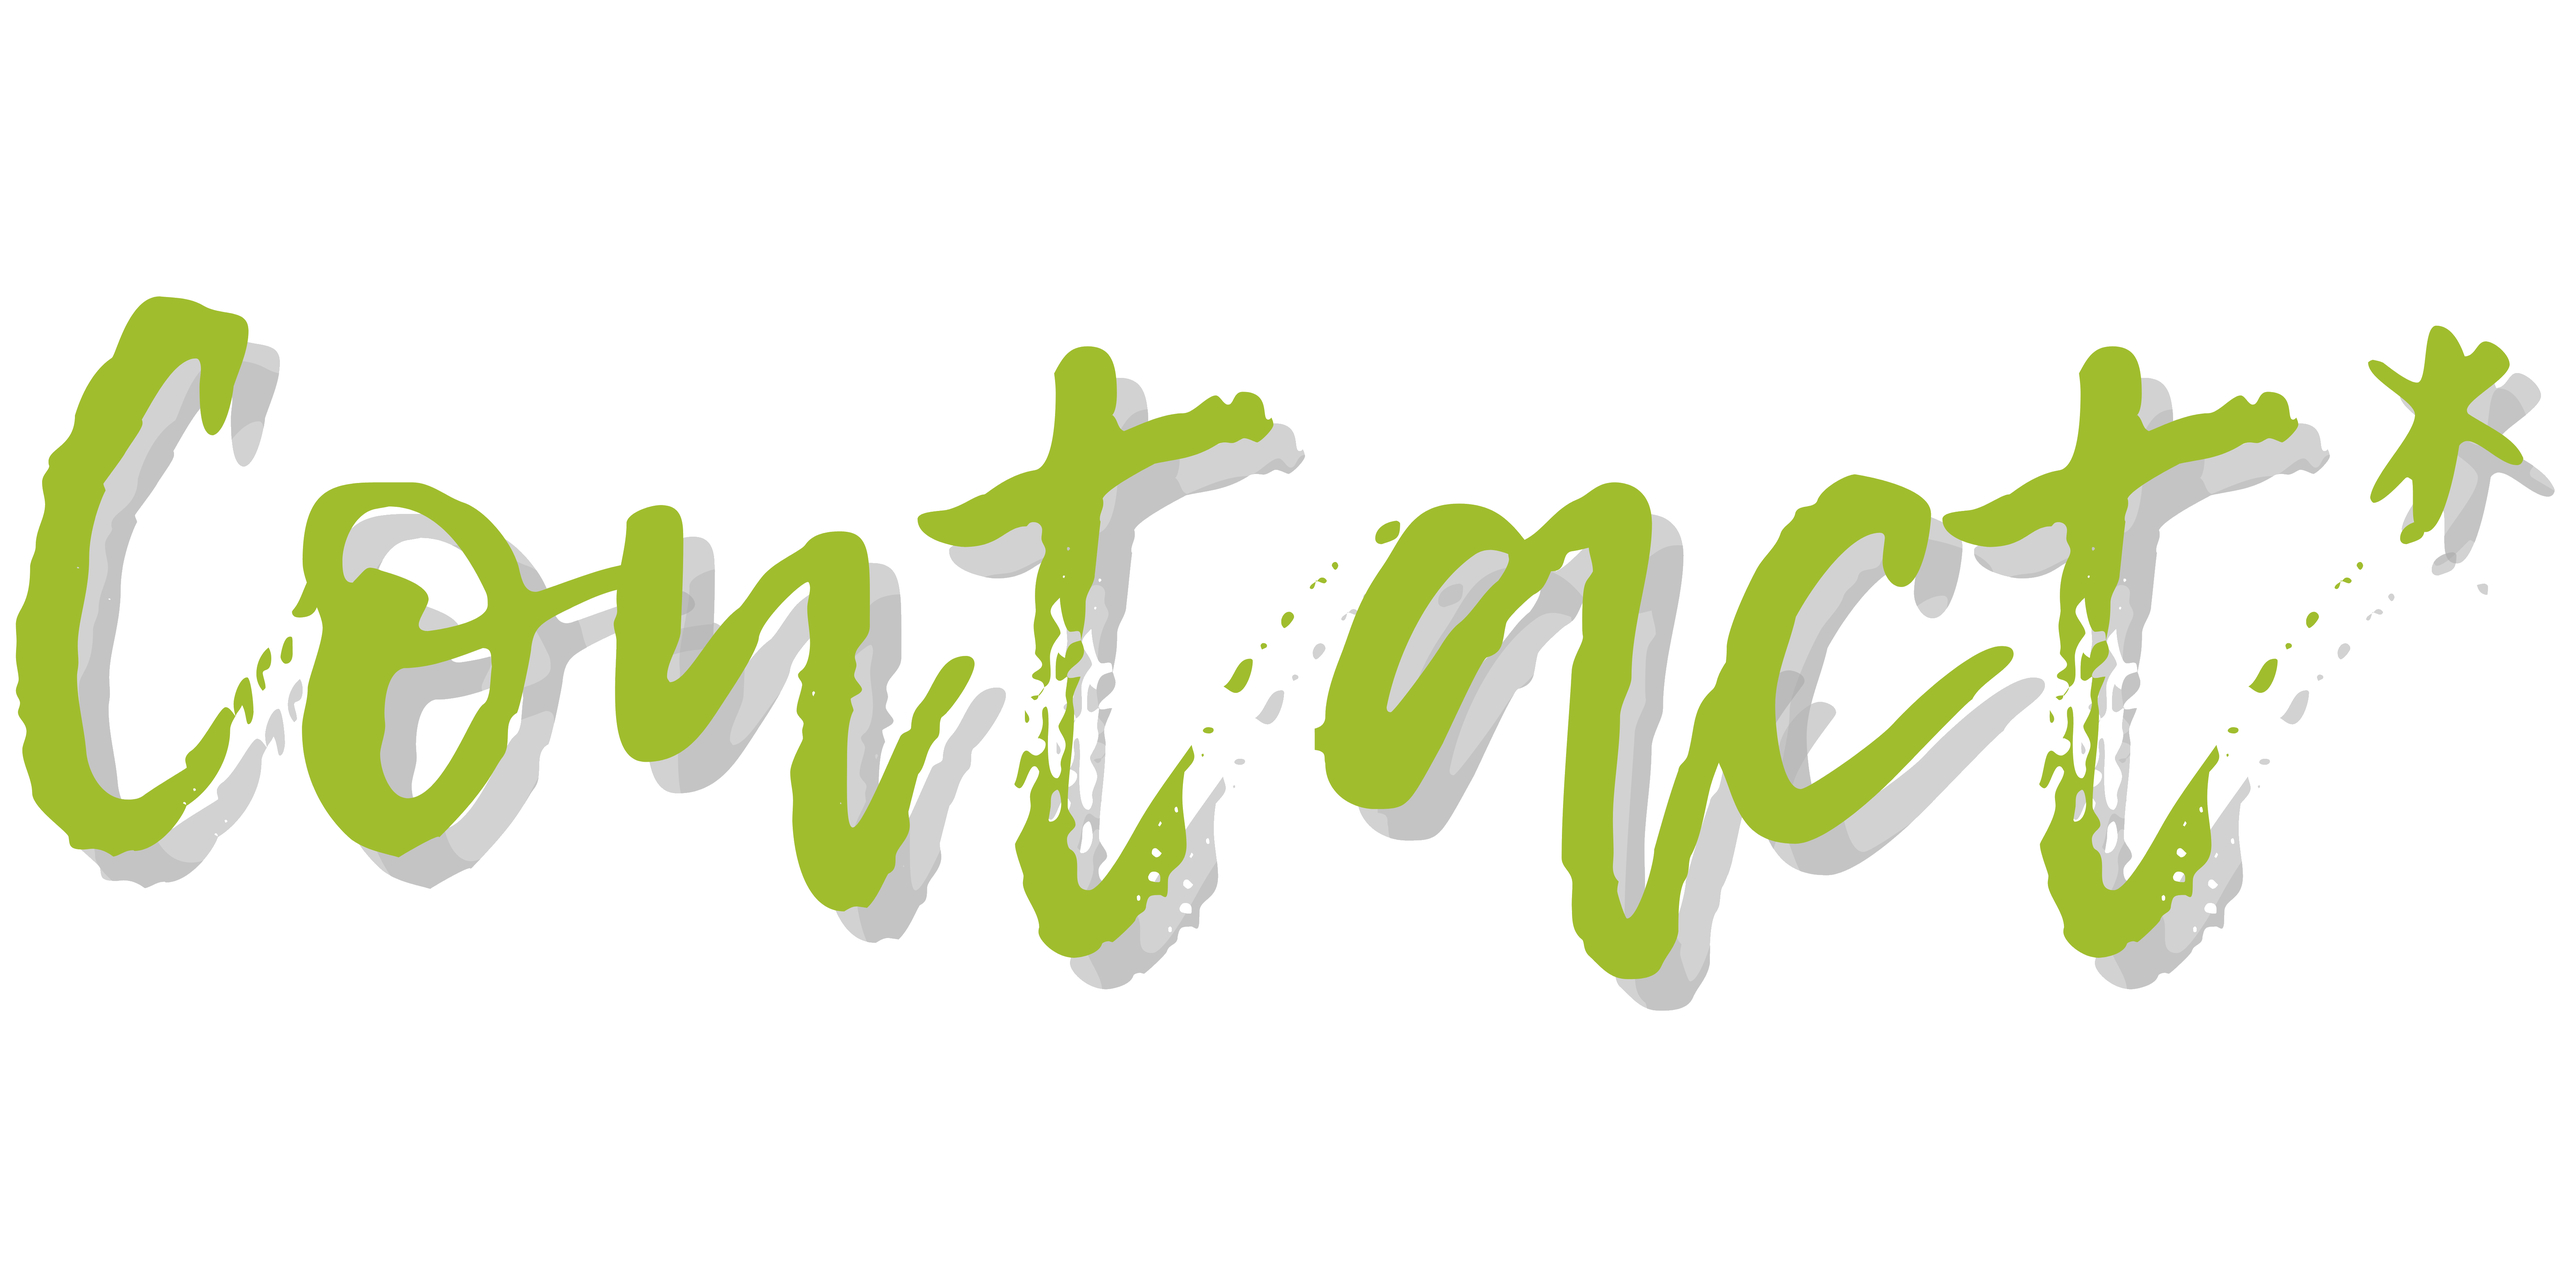
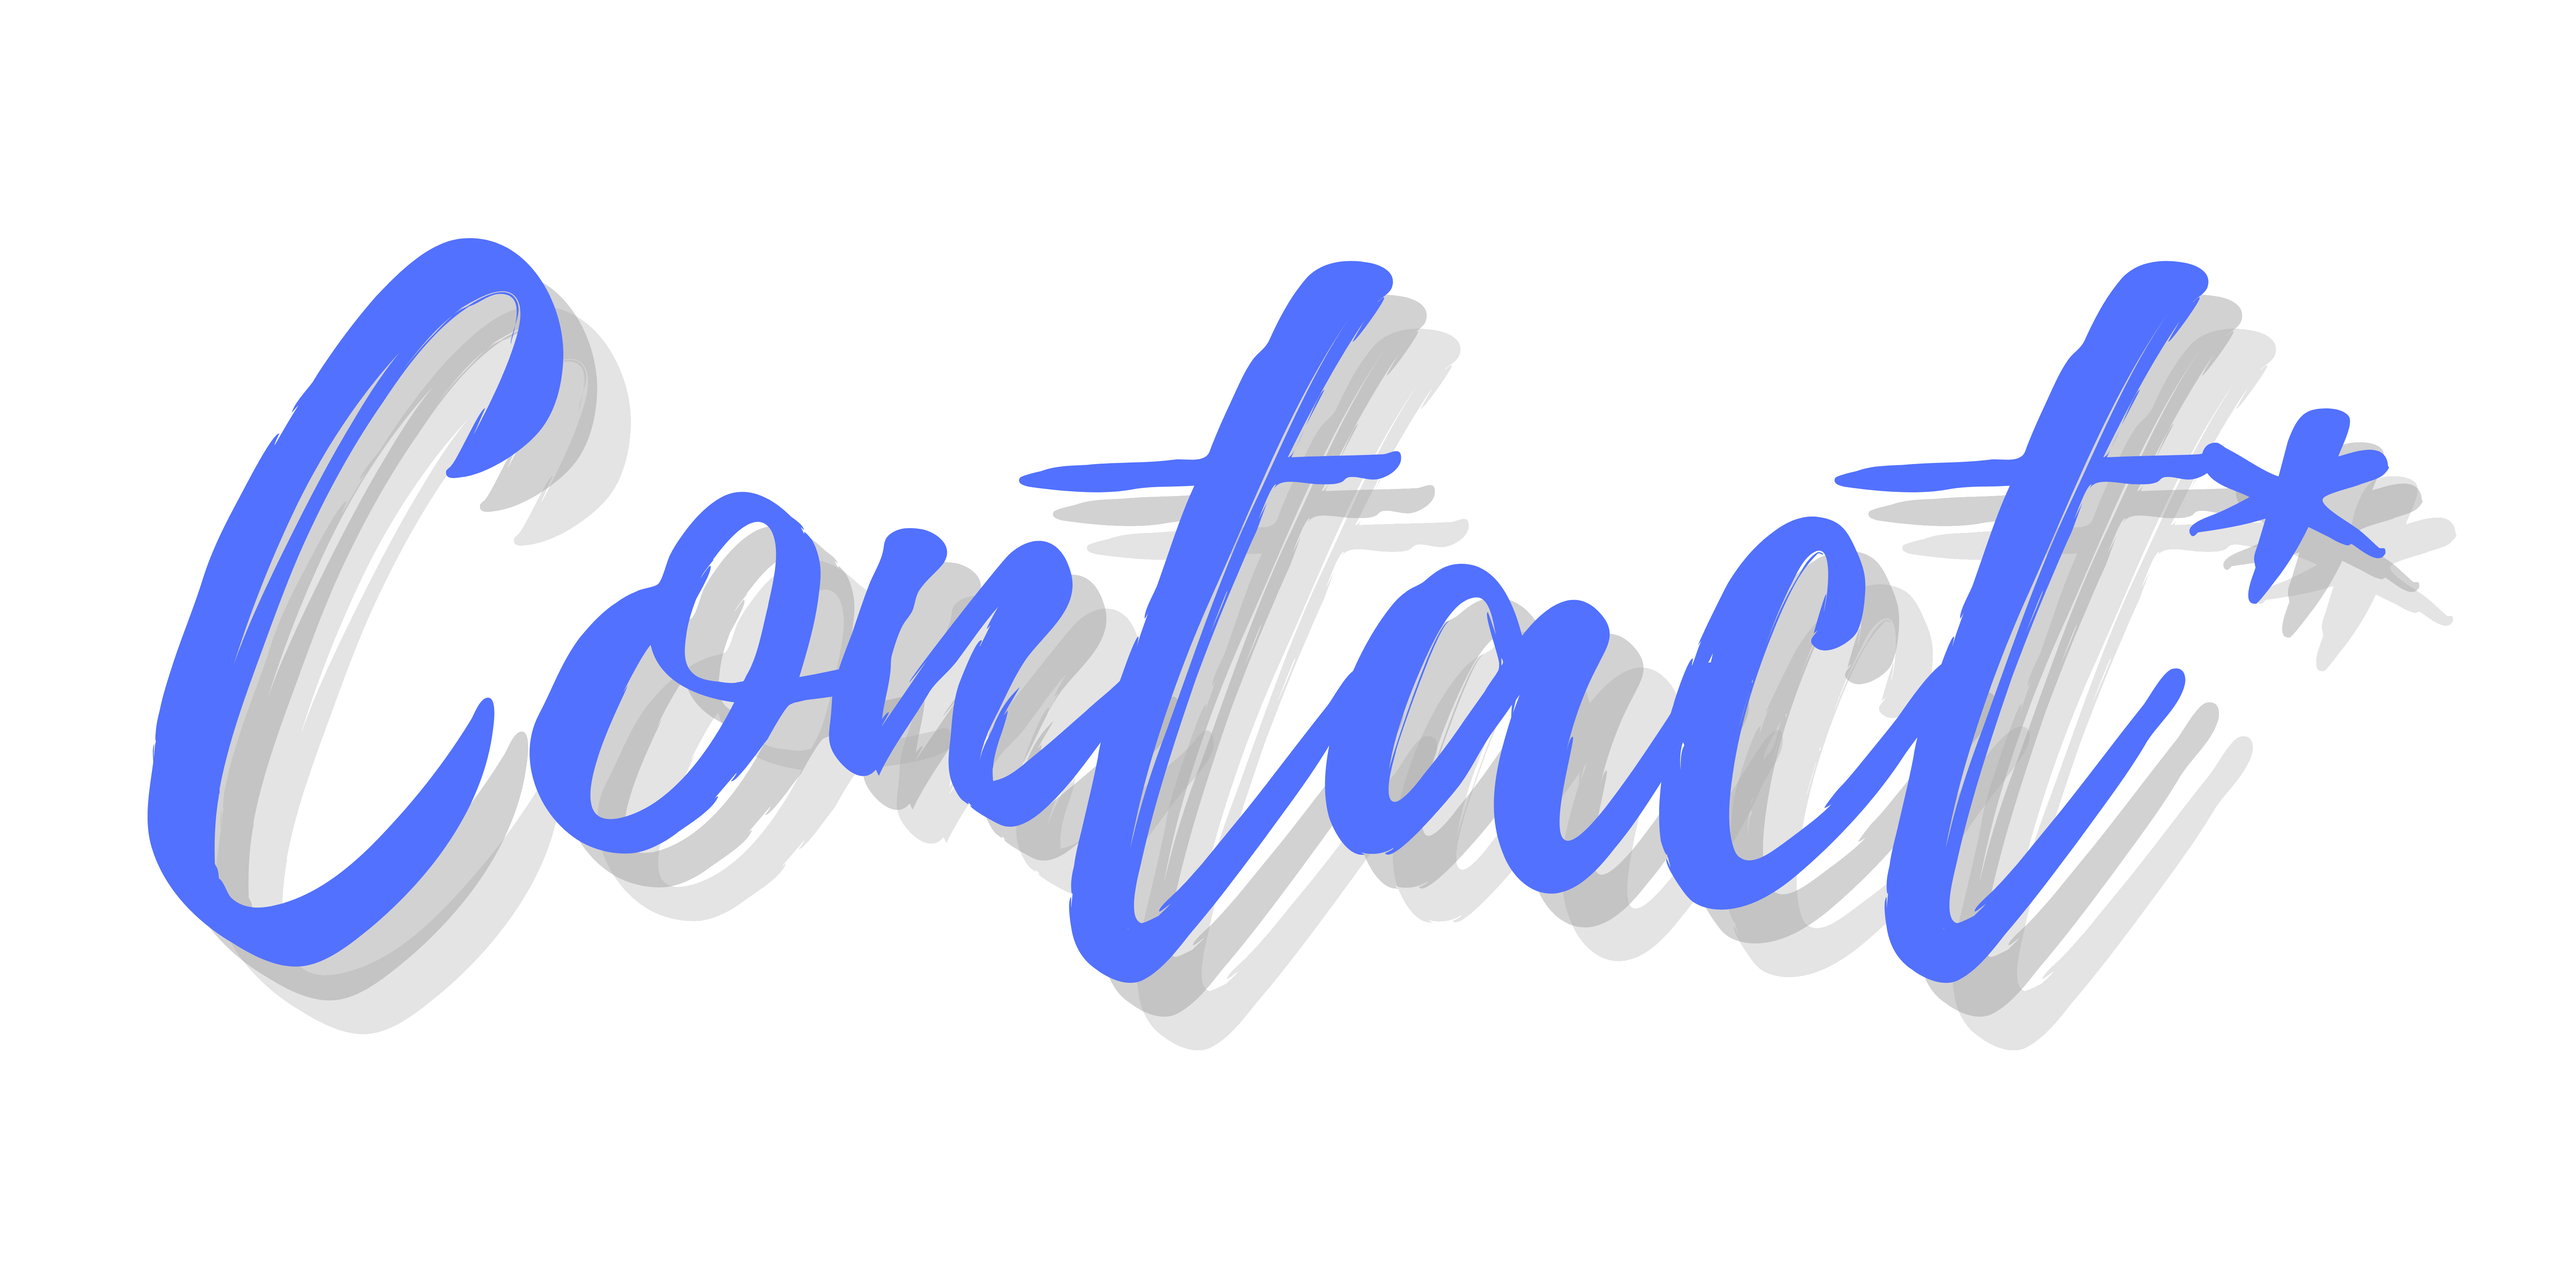
chnaged color scheme

diff --git a/src/css/contact.css b/src/css/contact.css
@@ -5,42 +5,42 @@
 }
 .text-head {
     padding-bottom: 50px;
-    margin-top: -5%;
 }
 .blurb {
-    font-family: "Shadows Into Light", cursive;
+    font-family: "Caveat", cursive;
     font-weight: bold;
     font-size: 46px;
-    color: rgb(238, 225, 225) !important;
-    text-shadow: 2px 2px rgb(24, 90, 151);
+    color: rgb(233, 240, 245) !important;
+    text-shadow: 2px 2px rgb(105, 108, 110);
 }
 .contact-icon {
-    color: rgba(179, 230, 60, 0.959);
+    color: rgba(55, 126, 218, 0.959);
     width: 100px;
     height: 100px;
-    box-shadow: 2px 2px 10px 5px rgba(204, 207, 199, 0.959);
-    background-color: rgb(70, 76, 77);
+    box-shadow: 2px 2px 10px 5px rgba(133, 133, 133, 0.959);
+    background-color: rgb(210, 214, 214);
 }
 .contact-box {
-    background-color: linear-gradient(  rgb(48, 52, 53), rgba(255, 255, 255, 0.));
+    background-color:rgb(158, 163, 163); 
     height: 175px;
     margin-top: -50%;
-    box-shadow: 5px 5px 30px 15px rgb(184, 226, 86), 5px 0px 20px 20px rgb(17, 16, 16);
+    box-shadow: 5px 5px 30px 15px rgb(114, 116, 116), 5px 0px 20px 20px rgb(255, 255, 255);
 }
 
 .contact-title {
     margin-top:30%;
     padding-top:25%;
-    font-family: "Shadows Into Light", cursive;
+    font-family: "Caveat", cursive;
     font-weight: bold;
     font-size: 46px;
-    color: white !important;
+    color: rgb(215, 224, 224) !important;
+    text-shadow: 2px 2px rgb(105, 108, 110);
 }
 
 
 .contact-text {
     font-size: 26px;
-    color:rgb(74, 121, 250);
+    color:rgb(43, 44, 49);
     font-family: "Shadows Into Light", cursive;
-    margin-top: -20px;
+    margin-top: -10px;
 }

diff --git a/src/css/projects.css b/src/css/projects.css
@@ -8,21 +8,21 @@
 .card {
   margin-bottom: 10%;
   border: black;
-  box-shadow: 30px 30px 30px black, 15px 10px 15px 10px #6c8508;
+  box-shadow: 30px 30px 30px rgb(99, 115, 136), 15px 10px 15px 10px #7f829b;
 }
 
 .card-img-top {
   height: 250px;
   filter: grayscale(80%);
   opacity: 0.9;
-  box-shadow: 12px 29px 81px 0px rgba(161, 155, 155, 0.75),
-    5px 5px 5px 5px black;
-  border: 2px solid black;
+  box-shadow: 12px 29px 81px 0px rgba(118, 174, 211, 0.75),
+    5px 5px 5px 5px rgb(102, 112, 197);
+  border: 2px rgb(117, 114, 114) solid;
 }
 
 
 .card-body {
-  background-color: #000000d9;
+  background-color: #fbfbfbd9;
 }
 
 .card-text,
@@ -31,16 +31,17 @@
 }
 
 .card-title {
-  text-shadow: 2px 5px black;
+  text-shadow: 2px 2px rgb(170, 174, 182);
+  padding: 1%;
 }
 .card-text {
-  color: rgb(190, 186, 189);
+  color: rgb(85, 84, 90);
   font-family: "Patrick Hand", cursive;
   font-size: 24px;
 }
 
 .sub-text {
-  font-size: 16px;
+  font-size: 20px;
 }
 
 /* @media (max-width: 1230px) {
@@ -49,17 +50,17 @@
     }
   } */
 a.btn.btn-secondary {
-  background-color: rgba(78, 72, 72, 0.75);
-  border: thin black solid;
+  background-color: rgba(110, 107, 107, 0.75);
+  border: thin rgb(117, 114, 114) solid;
   margin-right: 2%;
   width: 170px;
   box-shadow: 0 0 5px black;
 }
 
 a.btn.btn-secondary:hover {
-  box-shadow: 0 0 15px #d3174f;
+  box-shadow: 0 0 15px #032f70;
 }
 
 a.btn.btn-secondary:visited {
-  color: rgba(161, 155, 155, 0.75);
+  color: rgba(28, 70, 104, 0.75);
 }

diff --git a/src/components/projects/projectCard.js b/src/components/projects/projectCard.js
@@ -11,15 +11,15 @@ function ProjectCard(props) {
             <Card.Img variant='top' src={props.imgPath} alt='card-image' />
             <Card.Body>
                 <Card.Title style={{
-                    fontSize: '60px', color: '#a0bd2e',
-                    fontFamily: 'Road Rage'
+                    fontSize: '40px', color: '#002080',
+                    fontFamily: 'Caveat'
                 }}>{props.title}</Card.Title>
                 <Card.Text>{props.text}</Card.Text>
                 <Card.Text className='sub-text'>{props.subText}</Card.Text>
                 <Button variant="secondary" class="social-icons" href={props.link1} target='_blank'>VIEW THE REPO
-                    <AiFillGithub style={{ width: '30px', height: '30px', color:'rgba(252, 243, 129, 0.62)', marginLeft:'1px' }}/>
+                    <AiFillGithub style={{ width: '30px', height: '30px', color:'rgb(0, 32, 128)', marginLeft:'1px' }}/>
                 </Button>
-                <Button variant="secondary" class="social-icons" href={props.link2} target='_blank'>SEE IT LIVE                    <CgWebsite style={{ width: '30px', height: '30px', color:'rgba(252, 243, 129, 0.62)', marginLeft:'1px'}}/>
+                <Button variant="secondary" class="social-icons" href={props.link2} target='_blank'>SEE IT LIVE                    <CgWebsite style={{ width: '30px', height: '30px', color:'rgb(0, 32, 128)', marginLeft:'1px'}}/>
                 </Button>
             </Card.Body>
         </Card>

diff --git a/src/css/navbar.css b/src/css/navbar.css
@@ -5,7 +5,7 @@
   transition: all 0.3s ease-out 0s !important;
   padding: 0.1rem 2rem !important;
   font-size: 1.2rem !important;
-  background-color: #30362ac5 !important;
+  /* background-color: #a5a6a798 !important; */
 }
 
 @media (max-width: 767px) {
@@ -19,19 +19,21 @@
   }
 }
 .navbar-brand {
-  color: #7abd0ded !important;
+  color: #4872c0ed !important;
   text-shadow: 2px 2px rgb(66, 61, 61);
   font-size: 2.3em !important;
   font-weight: 700;
-  font-family: "Road Rage", cursive;
+  font-family: "Caveat", cursive;
+  padding-right: 2rem !important;
 }
 
 .navbar-nav .nav-link {
-  color: rgba(246, 250, 211, 0.726) !important;
+  color: #f9f9fa  !important;
   font-family: "Caveat", cursive;
   padding-right: 0.6rem !important;
   padding-left: 0.6rem !important;
   font-size: 2rem !important;
+  text-shadow: 2px 2px rgb(66, 61, 61);
 }
 
 .nav-link {
@@ -53,6 +55,7 @@
   transition: all 0.3s ease-out 0s;
   position: relative;
   z-index: 1;
+  color:#181a27;
 }
 
 .navbar-nav .nav-item a::after {
@@ -62,7 +65,7 @@
   height: 5px;
   width: 0;
   border-radius: 16px;
-  background: #82ce08dc;
+  background: #4b1fdbdc;
   bottom: 1px;
   left: 0;
   z-index: -1;

diff --git a/src/css/about.css b/src/css/about.css
@@ -1,17 +1,19 @@
 
 
 .about-image {
-  width: 90vw;
+  margin-top:5%;
+  width: 80vw;
 }
 
 .tHeaders {
-  width: 60vw;
-  margin-top: -10%;
+  width: 30vw;
+  margin-bottom: 15%;
+  margin-top:5%;
 }
 
 .tech-icons {
   background-image: var(--section-background-color) !important;
-  color: rgba(216, 210, 212, 0.726) !important;
+  color: rgba(238, 238, 238, 0.931) !important;
   font-size: 4.5em !important;
   margin: 15px !important;
   padding: 10px !important;
@@ -20,7 +22,7 @@
   text-align: center !important;
   border-radius: 5px !important;
   display: table !important;
-  box-shadow: 4px 5px 4px 3px #8ca309, 2px 2px white;
+  box-shadow: 4px 5px 4px 3px #0925a3, 2px 2px rgb(111, 53, 206);
   overflow: hidden !important;
   transition: all 0.4s ease 0s !important;
 }
@@ -34,8 +36,9 @@
 .tech-icons:hover {
   transform: scale(1.05) !important;
   overflow: hidden !important;
-  background-color: beige;
-  border: 2.2px solid rgba(255, 255, 255, 0.883) !important;
+  background-color: rgb(35, 61, 94);
+  border: 3.2px solid rgba(255, 255, 255, 0.883) !important;
+  color: white;
 }
 .tech-icon-images {
   padding: 20px !important;

diff --git a/src/css/home.css b/src/css/home.css
@@ -1,33 +1,22 @@
 
-
+/* 
 .home-content{
-    margin-top:-5%;
-  }
+    margin: top 0.1em;
+  } */
   
-  .home-container {
-    position: relative;
-    z-index: -1;
-    background-image: var(--image-gradient);
-    background-position: top center;
-    background-repeat: no-repeat;
-    padding-bottom: 30px !important;
-    padding-top: 30px !important;
-  }
+
+
   
-  .Typewriter {
-    padding-top: 2%;
-  }
-  
-  .Typewriter__wrapper {
+  /* .Typewriter__wrapper {
     font-size: 2.7em !important;
     font-family: 'Caveat', cursive;
-    color: #a30e40e7 !important;
+    color: #0d5590e7 !important;
     font-weight:900 !important;
     text-shadow: 2px 2px rgb(169, 175, 168);
   }
   .Typewriter__cursor {
     font-size: 2.4em !important;
-    color: #d3174f !important;
+    color: #68701e !important;
   }
   
   @media (max-width: 767px) {
@@ -37,15 +26,11 @@
       position: absolute !important;
     }
     .Typewriter__cursor {
-      display: none !important;
-    }
-  }
+      display: none !important; */
+    /* }
+  } */
   
-  /* Social */
-  
-  .home-intro-container {
-    margin-bottom: 2%;
-  }
+
   
   
   

diff --git a/src/components/home/home.js b/src/components/home/home.js
@@ -1,10 +1,10 @@
 import React from "react";
 import { Container} from "react-bootstrap";
-import Logo from "../../assets/images/logo-transparent.png";
+import Logo from "../../assets/images/blue-logo-tsp.png";
 import Particle from "../particle.js";
 import '../../css/particles.css'
 import '../../css/home.css';
-import Type from "./type";
+// import Type from "./type";
 
 function ShowHomePage() {
     return (
@@ -12,9 +12,10 @@ function ShowHomePage() {
             <Container fluid className="home-container" id="home">
                 <Particle />
                 <Container className='home-content'>
-                    <img style={{ marginTop: '5%' }} src={Logo} alt="logo" className="img-fluid" />
-                    <Type />
+                    <img  src={Logo} alt="logo" className="img-fluid" />
+                    {/* <Type /> */}
                 </Container>
+                <div style={{"marginBottom":"10%"}} />
             </Container>
         </section>
     )

diff --git a/src/components/particle.js b/src/components/particle.js
@@ -18,7 +18,7 @@ const Particle = () => {
               position: "absolute",
         width: "100%",
               height: "100%",
-        backgroundColor: '#1a1b1b',
+        backgroundColor: '#f2f2f2',
         backgroundImage: 'url("")',
         backgroundRepeat: 'no-repeat',
         backgroundSize: 'cover',
@@ -27,7 +27,7 @@ const Particle = () => {
             options={{
                 background: {
                     color: {
-                    value: '#1a1b1b',
+                    value: '  rgb(163, 165, 170)',
                 },
             },
                 fps_limit :60,
@@ -59,7 +59,7 @@ const Particle = () => {
                       value: "#ffffff",
                     },
                     links: {
-                      color: "#ffffff",
+                      color: "",
                       distance: 150,
                       enable: true,
                       opacity: 0.4,

diff --git a/src/css/index.css b/src/css/index.css
@@ -6,12 +6,10 @@ body {
   -moz-osx-font-smoothing: grayscale;
   background-image: linear-gradient(
     to bottom,
-    rgb(3, 5, 1),
-    rgb(31, 32, 31),
-    rgb(70, 71, 68),
-    rgb(183, 190, 178),
-    rgb(70, 71, 68),
-    rgb(31, 32, 31),
-    rgb(3, 5, 1)
+    rgb(182, 187, 197),
+    rgb(154, 155, 165),
+    rgb(130, 148, 190),
+    rgb(163, 165, 170)
+
   );
 }

diff --git a/src/components/about/about.js b/src/components/about/about.js
@@ -1,6 +1,6 @@
 import React from 'react';
 import { Container} from "react-bootstrap";
-import aboutImg from "../../assets/images/about.png";
+import aboutImg from "../../assets/images/about-blue-tsp.png";
 import techImage from "../../assets/images/tech-header.png";
 import toolsImage from "../../assets/images/tools-header.png";
 import Tech from "./tech";

diff --git a/src/components/projects/projects.js b/src/components/projects/projects.js
@@ -117,6 +117,7 @@ function Projects() {
                                     />
                             </Col>
                         </Row>
+                        <div style={{'marginBottom': '10%'}}/>
                     </div>
                 </div>
                 </Container>

diff --git a/src/css/footer.css b/src/css/footer.css
@@ -1,5 +1,5 @@
 .footer {
-  background-color: #30362ac5;
+  background-color: #a0a19ec5;
   position: fixed;
   left: 0;
   bottom: 0;
